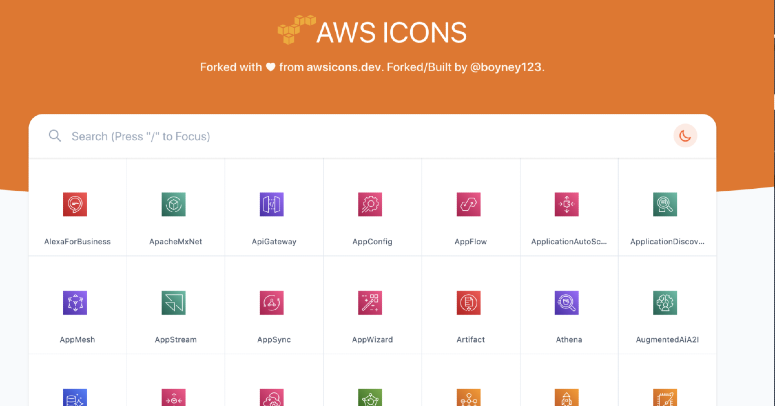
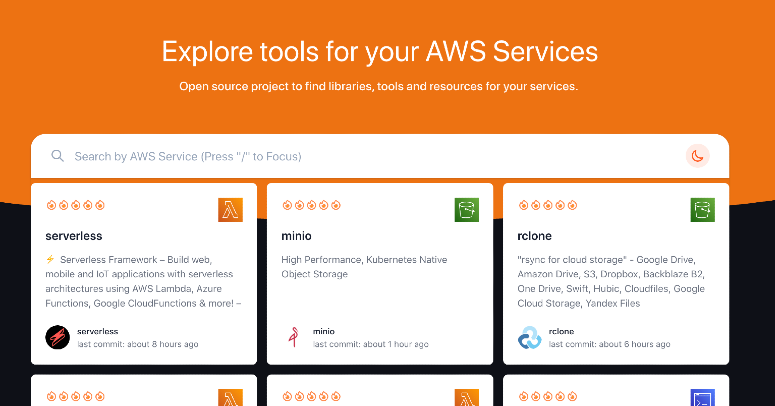
first commit

diff --git a/src/pages/index.js b/src/pages/index.js
@@ -81,7 +81,7 @@ const AbsoluteExternalLinks = () => (
 			<div className="-my-1">
 				<a
 					href={`https://twitter.com/intent/tweet?text=${encodeURI(
-						"Check out awstools! 🔥\n\nThanks @username_ZAYDEK for heroicons.dev and @boyney123 for awstools.dev!\n\nhttps://awstools.dev"
+						"Check out awstools! 🔥\n\nThanks @username_ZAYDEK for heroicons.dev and @boyney123 for awstools.dev and awsicons.dev!\n\nhttps://awstools.dev"
 					)}`}
 					{...target_blank}
 				>
@@ -936,7 +936,7 @@ const SectionApp = ({ state, dispatch }) => {
 					{/* Icons */}
 					<Style className="rounded-0 lg:rounded-6 shadow-none lg:shadow-2">
 						<div
-							className="dark:bg-cool-gray-900 overflow-hidden mt-5 "
+							className=" overflow-hidden mt-5 "
 							style={{
 								marginTop: "calc(-1 * var(--search-bar-height))",
 								paddingTop: "var(--search-bar-height)",

diff --git a/src/pages/_SEO.js b/src/pages/_SEO.js
@@ -1,7 +1,7 @@
 import Head from "next/head"
 
-const TITLE = "awstools – Open Source SVG Library for AWS Services"
-const DESCRIPTION = "New MIT open source SVG icon library for AWS Services. One-click copy-paste. Built with NextJS and Tailwind CSS."
+const TITLE = "awstools – Explore tools for your AWS Services"
+const DESCRIPTION = "New MIT open source project to find libraries, tools and resources for your aws services."
 
 const SEO = () => (
 	<Head>

diff --git a/README.md b/README.md
@@ -1,6 +1,6 @@
-# awstools Web Viewer
+# awstools – Explore tools for your AWS Services
 
-A set of free MIT-licensed high-quality SVG icons for you to use in your web projects.
+New MIT open source project to find libraries, tools and resources for your aws services.
 
 <br>
 <div align="center">
@@ -8,17 +8,53 @@ A set of free MIT-licensed high-quality SVG icons for you to use in your web pro
 </div>
 <br>
 
-Forked from [heroicons.dev](https://heroicons.dev), [awstools.dev](https://awstools.dev) created by me ([@boyney123](https://twitter.com/boyney123)).
 
-[Share with your friends on Twitter!](https://twitter.com/intent/tweet?text=Check%20out%20awstools!%20%F0%9F%94%A5%0A%0AThanks%20@username_ZAYDEK%20for%20awstools.dev%20and%20@boyney123%20for%20awstools.dev!%0A%0Ahttps://awstools.dev)
+<div align="center">
+	<a href="awstools.dev">awstools.dev created by </a>
+	<a href="https://twitter.com/boyney123">@boyney123</a>
+</div>
+
+## Purpose
+
+To help people search for relevant and up to date tools for the AWS services they are using.
+
+The resources are filtered out if they are old and unmaintained.
 
 ## Features
 
-✨ Tag-based search<br>
-✨ Search for only new icons using ‘new’: https://awstools.dev/?query=new<br>
-✨ Click-to-copy to the clipboard as SVG or JSX<br>
+✨ Search for resouces by service<br>
+✨ Add new resources with a url in the .yml file<br>
+✨ Explore and find up to date and relevant projects<br>
 ✨ Dark mode 😎<br>
 ✨ Preferences sync to localStorage<br>
+
+
+## Adding a resource 
+
+Adding a resource is super easy just open `scripts/projects.yml` and add your resource under the relevant service.
+
+Example
+
+```
+cloudformation:
+  - https://github.com/aws/aws-cdk
+  - https://github.com/awslabs/cfn-python-lint
+  - https://github.com/awslabs/cfncluster-cookbook
+  - https://github.com/awslabs/cfncluster
+  - https://github.com/Appliscale/perun
+  - https://github.com/bazaarvoice/cloudformation-ruby-dsl
+  - https://github.com/Sceptre/sceptre
+  - https://github.com/cloudtools/troposphere
+  - https://github.com/peterkh/cumulus
+  - https://github.com/envato/stack_master
+  - https://github.com/sparkleformation/sfn
+  - https://github.com/sparkleformation/sparkle_formation
+  - https://github.com/stelligent/cfn_nag
+```
+
+This shows the resources for `cloudformation`, if you wanted to add a resource just add another link and make a pull request. 
+
+I will review and update.
 
 ## Contributing Guide
 
